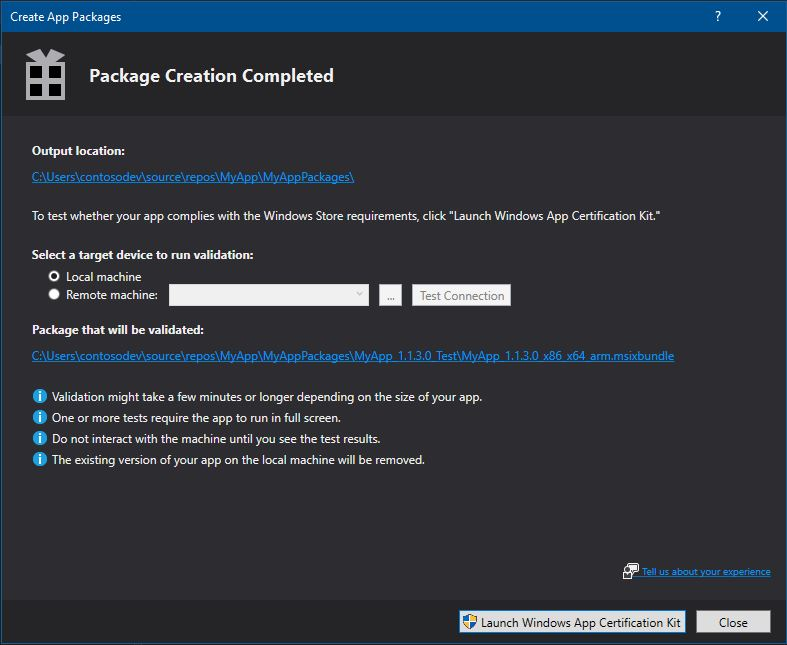
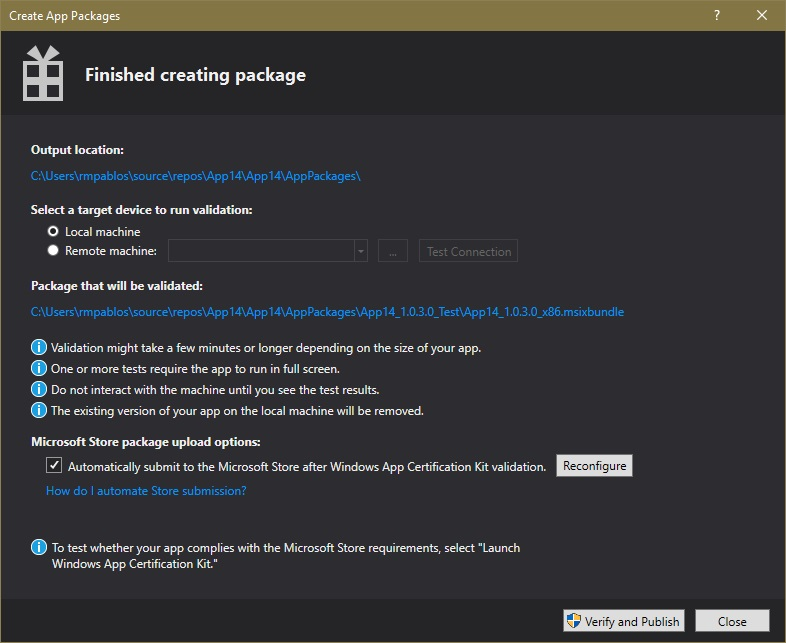
Include section: Automate Store submission (#170)
* Include section. Automate Store submission

* Fix typo

* Trying to fix a few formatting issues.

* A few more updates.

diff --git a/windows-apps-src/packaging/packaging-uwp-apps.md b/windows-apps-src/packaging/packaging-uwp-apps.md
@@ -91,9 +91,10 @@ To distribute an app through Microsoft Store you must create an app package (.ap
 6.  Make sure you select all three architecture configurations (x86, x64, and ARM) in the **Select and Configure Packages** dialog to ensure that your app can be deployed to the widest range of devices. In the **Generate app bundle** listbox, select **Always**. An app bundle (.appxbundle or .msixbundle) is preferred over a single app package file because it contains a collection of app packages configured for each type of processor architecture. When you choose to generate the app bundle, the app bundle will be included in the final app package upload (.appxupload or .msixupload) file along with debugging and crash analytic information. If you're unsure which architecture(s) to choose, or want to learn more about which architectures are used by various devices, see [App package architectures](https://docs.microsoft.com/windows/uwp/packaging/device-architecture).  
     ![Create App Packages window with package configuration shown](images/packaging-screen5.jpg)
 7.  Include full PDB symbol files to [Analyze app performance](https://docs.microsoft.com/windows/uwp/publish/analytics) from Partner Center after your app has been published. Configure any additional details such as version numbering or the package output location.
-9.  Click **Create** to generate the app package. If you selected one of the **I want to create packages to upload to the Microsoft Store** options in step 3 and are creating a package for Partner Center submission, the wizard will create a package upload (.appxupload or .msixupload) file. If you selected **I want to create packages for sideloading** in step 3, the wizard will create either a single app package or an app bundle based on your selections in step 6.
-10. When your app has been successfully packaged, you will see this dialog and you can retrieve your app package upload file from the specified output location. At this point, you can [validate your app package on the local machine or a remote machine](#validate-your-app-package).
+8.  Click **Create** to generate the app package. If you selected one of the **I want to create packages to upload to the Microsoft Store** options in step 3 and are creating a package for Partner Center submission, the wizard will create a package upload (.appxupload or .msixupload) file. If you selected **I want to create packages for sideloading** in step 3, the wizard will create either a single app package or an app bundle based on your selections in step 6.
+9. When your app has been successfully packaged, you will see this dialog and you can retrieve your app package upload file from the specified output location. At this point, you can [validate your app package on the local machine or a remote machine](#validate-your-app-package) and [automate store submission](#automate-store-submission).
     ![Package creation completed window with validation options shown](images/packaging-screen6.jpg)
+
 
 ### To create your app package upload file manually
 
@@ -130,6 +131,23 @@ Validate your app before you submit it to Partner Center for certification on a 
 5.  Specify a device form inside your subnet, or provide the Domain Name Server (DNS) name or IP address of a device that's outside of your subnet.
 6.  In the **Authentication Mode** list, choose **None** if your device doesn't require you to log onto it by using your Windows credentials.
 7.  Choose the **Select** button, and then choose the **Launch Windows App Certification Kit** button. If the remote tools are running on that device, Visual Studio connects to the device and then performs the validation tests. See [Windows App Certification Kit tests](https://msdn.microsoft.com/library/windows/apps/mt186450).
+
+### Automate store submission
+
+Starting in Visual Studio 2019, you can submit the generated .appxupload file  to the Microsoft Store directly from the IDE by selecting the **Automatically submit to the Microsoft Store after Windows App Certification Kit validation** option. You must specify the credentials used for the submission. These credentials are comprised of three parts: the **Azure Tenant ID**, the **Client ID** and the **Client secret**. Follow these steps to obtain them:
+
+1. In Partner Center, go to your **Developer settings**, click **Users**, and associate your organization's Dev Center account with your organization's Azure AD directory. For detailed instructions, see [Manage account users](https://msdn.microsoft.com/windows/uwp/publish/manage-account-users).
+2. In the **Users** page, click **Add Azure AD applications**, add the Azure AD application that represents the app or service that you will use to access submissions for your Dev Center account, and assign it the Manager role. If this application already exists in your Azure AD directory, you can select it on the Add Azure AD applications page to add it to your Dev Center account. Otherwise, you can create a new Azure AD application on the **Add Azure AD applications** page. For more information, see [Add users, groups, and Azure AD applications to your Partner Center account](/windows/uwp/publish/add-users-groups-and-azure-ad-applications).
+3. Return to the **Manage users** page, click the name of your Azure AD application to go to the application settings, and copy the **Tenant ID** and **Client ID** values.
+4. Click **Add new key**. On the following screen, copy the Key value, which corresponds to the Client secret. You will not be able to access this info again after you leave this page, so make sure to not lose it. For more information, see the information about managing keys in [Add users, groups, and Azure AD applications to your Partner Center account](/windows/uwp/publish/add-users-groups-and-azure-ad-applications).
+    ![Verify and Publish progress](images/packaging-screen8.jpg)
+    > [!Important] 
+    > Your credentials can be saved to your profile to be used in future submissions
+5. Click **OK**.
+
+The submission will start after the WACK test have finished. You can track the submission progress in the **Verify and Publish** window.
+
+![Verify and Publish progress](images/packaging-screen9.jpg)
 
 ## Sideload your app package
 
